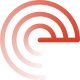
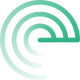
fix header

Changed region(s): [[0.0, 0.0, 1.0, 0.975]]

diff --git a/frontend/web/sass/_style.scss b/frontend/web/sass/_style.scss
@@ -1146,7 +1146,7 @@ ul.horizon-sticky-nav>li.active a {
 
 .hero-banner-01 h1 {
   font-size: 48px;
-  line-height: 0.9;
+  line-height: 1;
   letter-spacing: -4px;
   margin-bottom: 15px;
 }

diff --git a/frontend/views/layouts/main.php b/frontend/views/layouts/main.php
@@ -61,9 +61,9 @@ AppAsset::register($this);
     
 	
     <!-- Fav and Touch Icons -->
-    <link rel="apple-touch-icon" sizes="180x180" href="<?= Url::to('/img/favicon/logo_ei(orange).png', true)?>">
+    <link rel="apple-touch-icon" sizes="180x180" href="<?= Url::to('/img/favicon/logo_ei(green).png', true)?>">
     <link rel="icon" type="image/png" sizes="32x32" href="">
-    <link rel="icon" type="image/png" sizes="16x16" href="<?= Url::to('/img/favicon/favicon1.ico', true)?>">
+    <link rel="icon" type="image/png" sizes="16x16" href="<?= Url::to('/img/favicon/favicon2.ico', true)?>">
     <link rel="manifest" href="<?= Url::to('/img/favicon/site.webmanifest', true)?>">
     <link rel="mask-icon" href="<?= Url::to('/img/favicon/safari-pinned-tab.svg', true)?>" color="#5bbad5">
     <meta name="msapplication-TileColor" content="#ffffff">

diff --git a/frontend/views/business/index.php b/frontend/views/business/index.php
@@ -38,7 +38,7 @@ $description = ''; //'В нашей базе собрана исключител
 
                 </div>
             
-                <h1><?=$title?></h1>
+                <!-- <h1><?=$title?></h1> -->
                 <p class="font-lg spacing-1 "><?=$description?></p>
 
                 <?= SearchForm::widget(['type' => $type])?>
